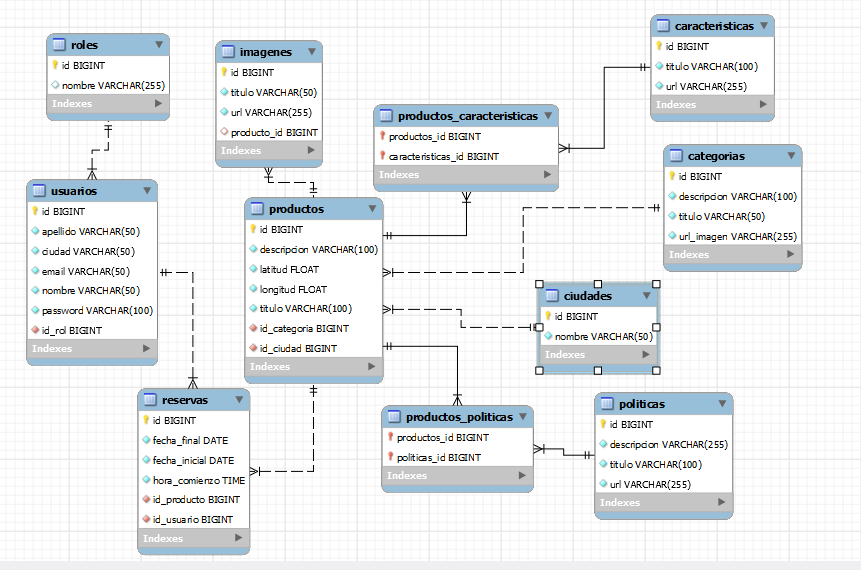
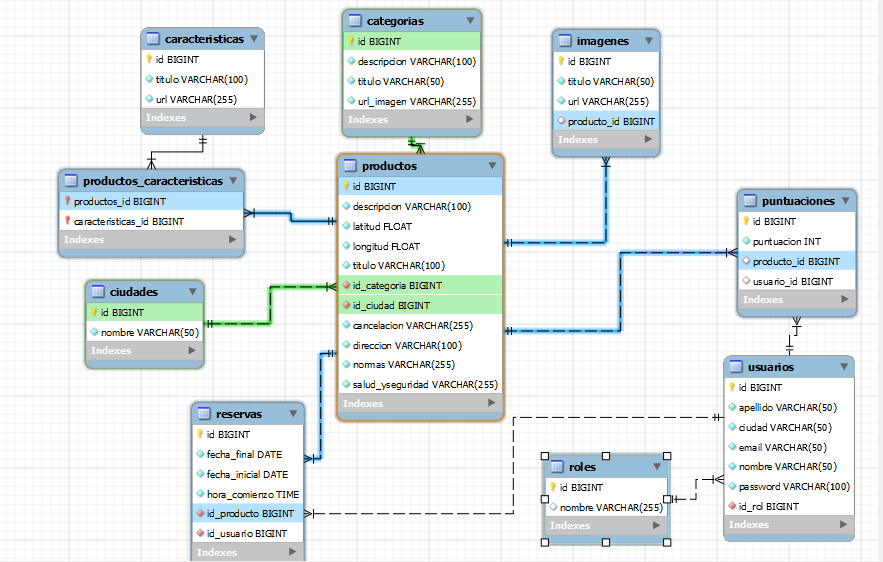
Change DER and README

diff --git a/README.md b/README.md
@@ -1,18 +1,24 @@
 # Proyecto Integrador Grupo 2
+
 ## Frontend
-URL Bucket s3: [http://grupo2-camada2-front.s3-website.us-east-2.amazonaws.com/](http://grupo2-camada2-front.s3-website.us-east-2.amazonaws.com/)
+
+URL Bucket s3: [http://digitalbookingc2.ddns.net/](http://digitalbookingc2.ddns.net/)
 
 **Usuario 1:**
- - **Email:** messi@gmail.com
- - **Contraseña:** 123456
+
+- **Email:** messi@gmail.com
+- **Contraseña:** 123456
 
 **Usuario 2:**
- - **Email:** juanlopez@hotmail.com
- - **Contraseña:** contraseña
+
+- **Email:** juanlopez@hotmail.com
+- **Contraseña:** contraseña
 
 ## Backend
+
 URL base de instancia EC2: [http://3.144.19.234:8080/](http://3.144.19.234:8080/)
 
 **Admin:**
- - **Email:** facundo@hotmail.com
- - **Contraseña:** administrador
+
+- **Email:** facundo@hotmail.com
+- **Contraseña:** administrador
